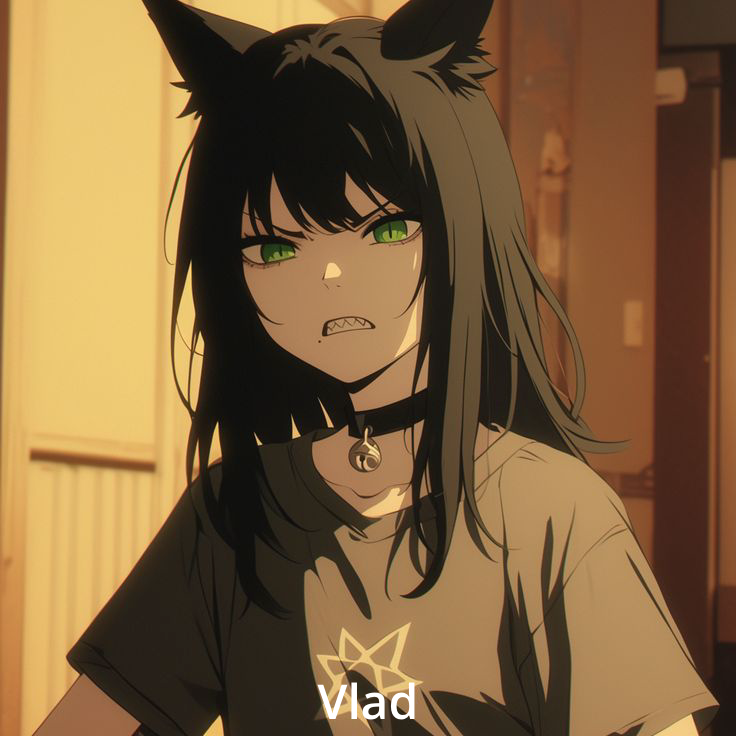
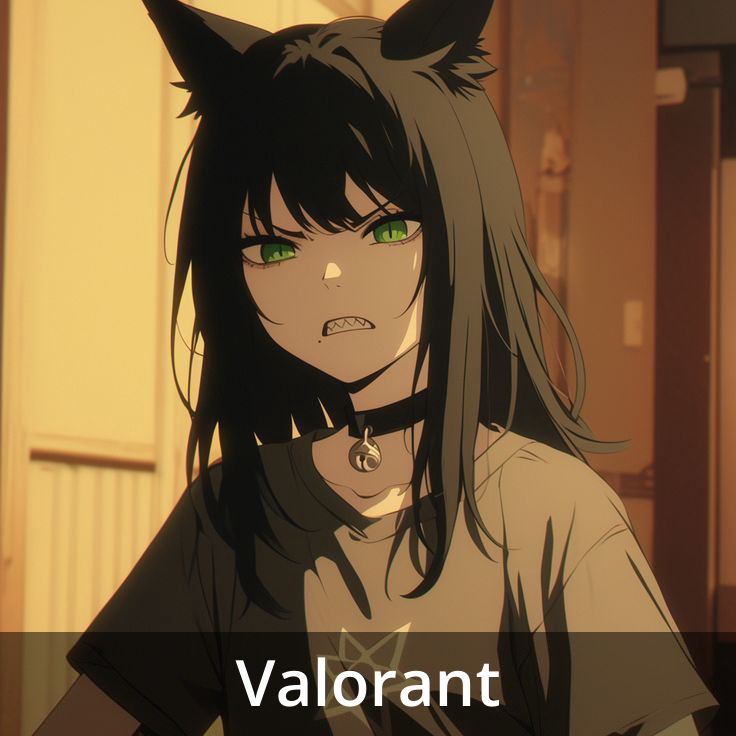
updates

Changed region(s): [[0.25, 0.8438, 1.0, 1.0], [0.0, 0.8438, 0.1875, 1.0]]

diff --git a/main.go b/main.go
@@ -1,6 +1,7 @@
 package main
 
 import (
+	"bufio"
 	"fmt"
 	"image"
 	"image/color"
@@ -10,6 +11,7 @@ import (
 	"log"
 	"net/http"
 	"os"
+	"strings"
 
 	"golang.org/x/image/font"
 	"golang.org/x/image/font/opentype"
@@ -17,17 +19,28 @@ import (
 )
 
 func main() {
-	word := "Vlad"
+	reader := bufio.NewReader(os.Stdin)
+	fmt.Println("Enter the word or phrase: ")
+	word, err := reader.ReadString('\n')
+	if err != nil {
+		log.Fatalf("Failed to read input: %v", err)
+	}
+	word = strings.TrimSpace(word)
+
 	width := 736
 	height := 736
+	fontSize := 64.0
+	outputFile := "output.png"
 
-	_, err := createImage(width, height, word, "OpenSans-SemiBold.ttf", 48)
+	_, err = createImage(width, height, word, "OpenSans-SemiBold.ttf", fontSize, outputFile)
 	if err != nil {
 		log.Fatalf("Failed to create image: %v", err)
 	}
+
+	fmt.Printf("Image created successfully as %s\n", outputFile)
 }
 
-func createImage(width, height int, initials string, fontPath string, fontSize float64) (*image.RGBA, error) {
+func createImage(width, height int, initials string, fontPath string, fontSize float64, outputPath string) (*image.RGBA, error) {
 	f, err := os.Open("bg.jpg")
 	if err != nil {
 		return nil, fmt.Errorf("failed to open background image: %w", err)
@@ -69,9 +82,9 @@ func createImage(width, height int, initials string, fontPath string, fontSize f
 	}
 	defer face.Close()
 
-	addLabel(background, width/2, height-50, initials, face)
+	addLabel(background, width/2, height, initials, face)
 
-	outFile, err := os.Create("output.png")
+	outFile, err := os.Create(outputPath)
 	if err != nil {
 		return nil, fmt.Errorf("failed to create output file: %w", err)
 	}
@@ -86,6 +99,8 @@ func createImage(width, height int, initials string, fontPath string, fontSize f
 }
 
 func addLabel(img *image.RGBA, x, y int, label string, face font.Face) {
+	bgColor := color.RGBA{0, 0, 0, 128}
+
 	col := color.RGBA{255, 255, 255, 255}
 
 	d := &font.Drawer{
@@ -96,7 +111,16 @@ func addLabel(img *image.RGBA, x, y int, label string, face font.Face) {
 	}
 
 	d.Dot.X -= d.MeasureString(label) / 2
-	d.Dot.Y += d.Face.Metrics().Height / 2
+	d.Dot.Y -= fixed.I(30)
+
+	padding := fixed.I(30)
+	bgRect := image.Rect(
+		0,
+		fixed.Int26_6(d.Dot.Y-face.Metrics().Height/2-padding).Floor(),
+		736,
+		fixed.Int26_6(d.Dot.Y+padding).Ceil(),
+	)
+	draw.Draw(img, bgRect, &image.Uniform{bgColor}, image.Point{}, draw.Over)
 
 	d.DrawString(label)
 }
